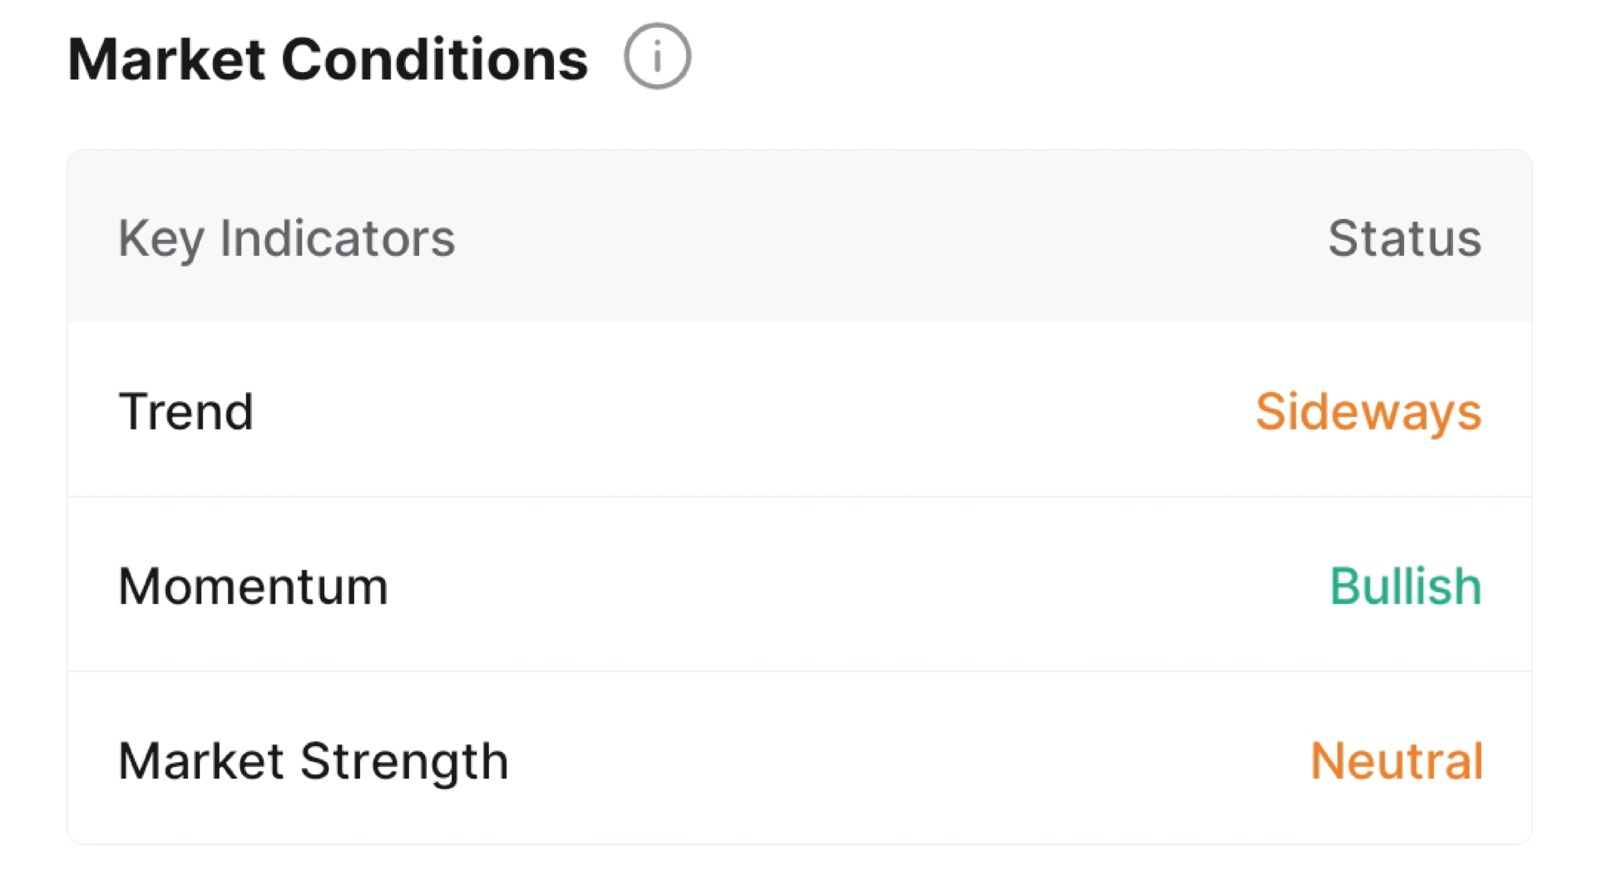
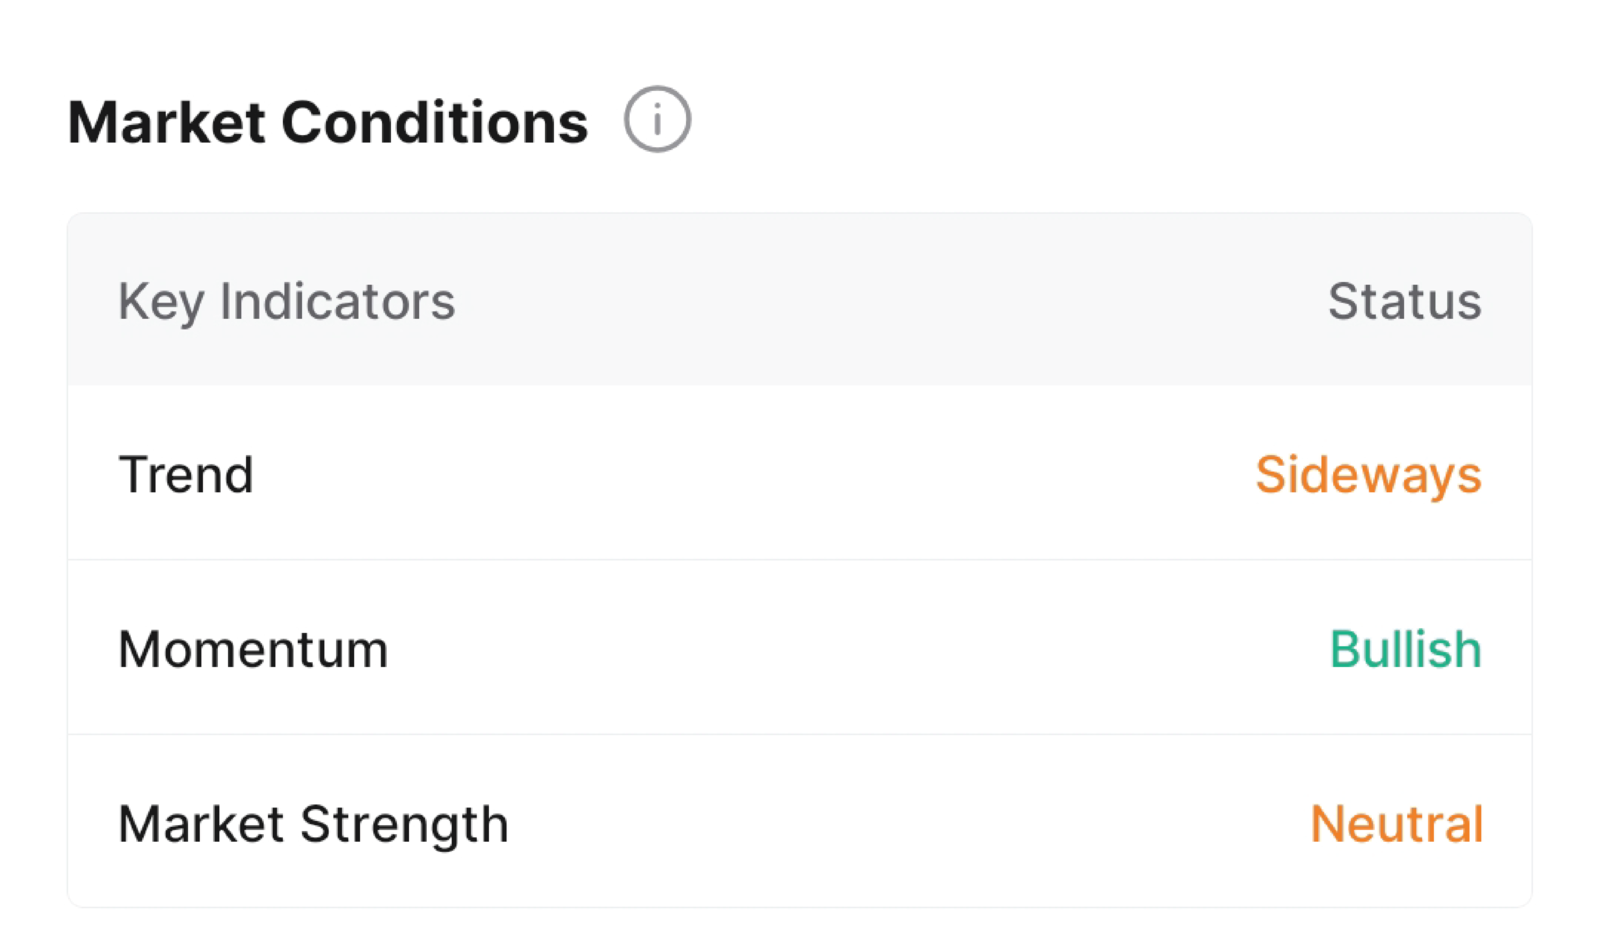
022 SC16: stop trimming the screens, and give 03 and 05 one width
Simon: "yang file 05 kenapa ke-crop tuh? Jangan di crop, widthnya samain
dengan 03", and then "04 juga ke crop".

He was right and it was mine. The five were copied in through `convert
-trim`, which strips a uniform border matching the CORNER pixel — not the
alpha. On 04 and 05 the only side uniform enough to match was the left, so
it ate 151px of white there and nothing on the right; on 03 it took 161px
off the top. Each panel then sat hard against one edge of its card with its
own margin gone on that side and none added back on the other, which is
exactly what reads as a crop.

All five are now the export as shot, downscaled and nothing else. Never trim
them: the five come off one 4084px-wide capture and their margins are only
consistent while they are all untouched.

03 and 05 now share a width, which off one capture means they share a ZOOM —
two panels from one screen at one scale. Their heights differ because their
aspects do, and the column's width is solved so the two of them plus the gap
come to exactly the height of the pair beside them. Asserted: equal width,
one left edge, a 32px gap, and 580 of column.

diff --git a/src/episodes/022-ta-mistakes/data/layout.ts b/src/episodes/022-ta-mistakes/data/layout.ts
@@ -1796,44 +1796,65 @@ const PREP_TOP = theme.stage.active.y + (PREP_STRIP - PREP_LEADING * 2) / 2;
  * ⚠ EVERY BOX IS ITS OWN PICTURE'S SHAPE, which is the whole reason these
  * ratios are here. The five files are Tuntun app screens and no two of them
  * are alike: 01 and 02 are full phone screens at 0.55, 03 and 05 are wide
- * panels at 1.81 and 1.70, 04 is a table at 0.77. A common box would have
+ * panels at 1.69 and 1.77, 04 is a table at 0.80. A common box would have
  * letterboxed four of them — "jangan di stretch" cuts both ways, and a picture
  * floating inside a frame two sizes too wide is the other half of that rule.
- * The numbers are MEASURED off the files themselves, after trimming the
- * transparent margin the export left on three of them.
+ *
+ * ⚠ THE RATIOS ARE THE EXPORT'S OWN, WITH NOTHING TRIMMED, and that is a fix
+ * rather than a default. They were first copied in through `convert -trim`,
+ * which strips a uniform border matching the corner pixel: on 04 and 05 it ate
+ * 151px of white from the LEFT ONLY and on 03 161px from the top, because
+ * those were the only sides uniform enough to match. The panels inside then sat
+ * hard against one edge of their card with their own margin gone — which is
+ * what Simon saw as "ke-crop" on 05 and 04. All five are now the export as
+ * shot, downscaled and nothing else, so each keeps the margin it was drawn
+ * with. NEVER TRIM THESE: the five come off one 4084px-wide screen and their
+ * margins are only consistent while they are all untouched.
+ *
+ * ⚠ 03 AND 05 ARE THE SAME WIDTH — Simon, "widthnya samain dengan 03". They
+ * come off the same 4084px capture, so equal width IS equal zoom: two panels
+ * from one screen shown at one scale. Their HEIGHTS differ, because their
+ * aspects do, and the column's width is solved so that the two of them plus the
+ * gap come to exactly the height of the pair beside them.
  *
  * ⚠ AND THE LAYOUT IS SOLVED FROM ONE HEIGHT. `PREP_H` is the tall column's
- * height; everything else falls out of it, so the arrangement cannot drift
- * out of proportion when it moves. 576 is what the WIDTH allows: the left
- * column's outer edge lands on 104 against the safe area's 96, and the right
- * one on 1769 against 1824. It is not the height that is tight.
+ * height; everything else falls out of it, so the arrangement cannot drift out
+ * of proportion when it moves. 580 is what the WIDTH allows: the left column's
+ * outer edge lands on 120 against the safe area's 96, and 04's on 1791 against
+ * 1824. It is not the height that is tight.
  *
  * ⚠ THE MIDDLE PAIR IS CENTRED ON THE FRAME, NOT THE GROUP. "01 Day dan 02
  * Week bersebelahan di tengah layar" — so the pair is placed on 960 first and
- * the two side columns hang off it. The whole group is therefore slightly
- * left of centre, because the left column is wider than the right; that is the
+ * the two side columns hang off it. The whole group is therefore slightly left
+ * of centre, because the left column is wider than the right; that is the
  * direction, and it is the pair that was named.
  */
 const PREP_ART = {
   "01": { name: "01 Day", src: "art/prep/01-day.png", ratio: 881 / 1600 },
   "02": { name: "02 Week", src: "art/prep/02-week.png", ratio: 881 / 1600 },
-  "03": { name: "03 Trend", src: "art/prep/03-trend.png", ratio: 1600 / 886 },
-  "04": { name: "04 Setup", src: "art/prep/04-setup.png", ratio: 1232 / 1600 },
-  "05": { name: "05 Level", src: "art/prep/05-level.png", ratio: 1600 / 941 },
+  "03": { name: "03 Trend", src: "art/prep/03-trend.png", ratio: 1600 / 949 },
+  "04": { name: "04 Setup", src: "art/prep/04-setup.png", ratio: 1279 / 1600 },
+  "05": { name: "05 Level", src: "art/prep/05-level.png", ratio: 1600 / 906 },
 } as const;
 
-const PREP_H = 576;
+const PREP_H = 580;
 const PREP_GAP = 32;
-/** The left column is two rows, so each of its screens is half the height. */
-const PREP_HALF = (PREP_H - PREP_GAP) / 2;
-const PREP_WIDE = (key: "03" | "05") => PREP_ART[key].ratio * PREP_HALF;
+/**
+ * The left column's width, solved so its two panels stack to exactly PREP_H.
+ * At one width W the two heights are W/r03 and W/r05, so
+ *   W (1/r03 + 1/r05) + gap = H.
+ */
+const PREP_COL_W =
+  (PREP_H - PREP_GAP) / (1 / PREP_ART["03"].ratio + 1 / PREP_ART["05"].ratio);
+const PREP_WIDE = (key: "03" | "05") => ({
+  w: PREP_COL_W,
+  h: PREP_COL_W / PREP_ART[key].ratio,
+});
 const PREP_TALL = (key: "01" | "02" | "04") => PREP_ART[key].ratio * PREP_H;
 
 /** The middle pair, placed on the frame's centre-line first. */
 const PREP_PAIR = PREP_TALL("01") + PREP_GAP + PREP_TALL("02");
 const PREP_MID_X = theme.canvas.width / 2 - PREP_PAIR / 2;
-/** The left column is as wide as its widest screen; both are centred in it. */
-const PREP_COL_W = Math.max(PREP_WIDE("03"), PREP_WIDE("05"));
 const PREP_COL_X = PREP_MID_X - PREP_GAP - PREP_COL_W;
 const PREP_ROW_Y = theme.canvas.height / 2 - PREP_H / 2;
 
@@ -1845,12 +1866,12 @@ const PREP_BOX = (key: keyof typeof PREP_ART): Rect => {
   if (key === "04") {
     return { x: PREP_MID_X + PREP_PAIR + PREP_GAP, y: PREP_ROW_Y, w: PREP_TALL("04"), h: PREP_H };
   }
-  const w = PREP_WIDE(key);
+  const { w, h } = PREP_WIDE(key);
   return {
-    x: PREP_COL_X + (PREP_COL_W - w) / 2,
-    y: key === "03" ? PREP_ROW_Y : PREP_ROW_Y + PREP_HALF + PREP_GAP,
+    x: PREP_COL_X,
+    y: key === "03" ? PREP_ROW_Y : PREP_ROW_Y + PREP_H - h,
     w,
-    h: PREP_HALF,
+    h,
   };
 };
 
@@ -1938,8 +1959,17 @@ export const PREP_SHOT = {
   if (midY !== theme.canvas.height / 2) {
     fail(`SC16's middle pair is centred on ${midY}, not on the screen at ${theme.canvas.height / 2}`);
   }
-  /** ⚠ AND THE LEFT COLUMN'S TWO ROWS FILL EXACTLY THE PAIR'S HEIGHT. */
+  /** ⚠ 03 AND 05 ARE THE SAME WIDTH, ON THE SAME LEFT EDGE, and their two
+   *  heights plus the gap fill exactly the pair's height beside them. */
   const col = S.tiles.filter((t) => t.key === "03" || t.key === "05");
+  if (Math.abs(col[0].rect.w - col[1].rect.w) > 0.001) {
+    fail(`SC16's 03 is ${col[0].rect.w} wide and 05 is ${col[1].rect.w}; they have to match`);
+  }
+  if (Math.abs(col[0].rect.x - col[1].rect.x) > 0.001) fail("SC16's 03 and 05 are not on one left edge");
   const colH = Math.max(...col.map((t) => t.rect.y + t.rect.h)) - Math.min(...col.map((t) => t.rect.y));
   if (Math.abs(colH - PREP_H) > 0.001) fail(`SC16's left column is ${colH} tall, not the ${PREP_H} beside it`);
+  const inner = Math.min(...col.map((t) => t.rect.y + t.rect.h)) === col[0].rect.y + col[0].rect.h
+    ? col[1].rect.y - (col[0].rect.y + col[0].rect.h)
+    : col[0].rect.y - (col[1].rect.y + col[1].rect.h);
+  if (Math.abs(inner - PREP_GAP) > 0.001) fail(`SC16's left column has a ${inner}px gap, not ${PREP_GAP}`);
 }
